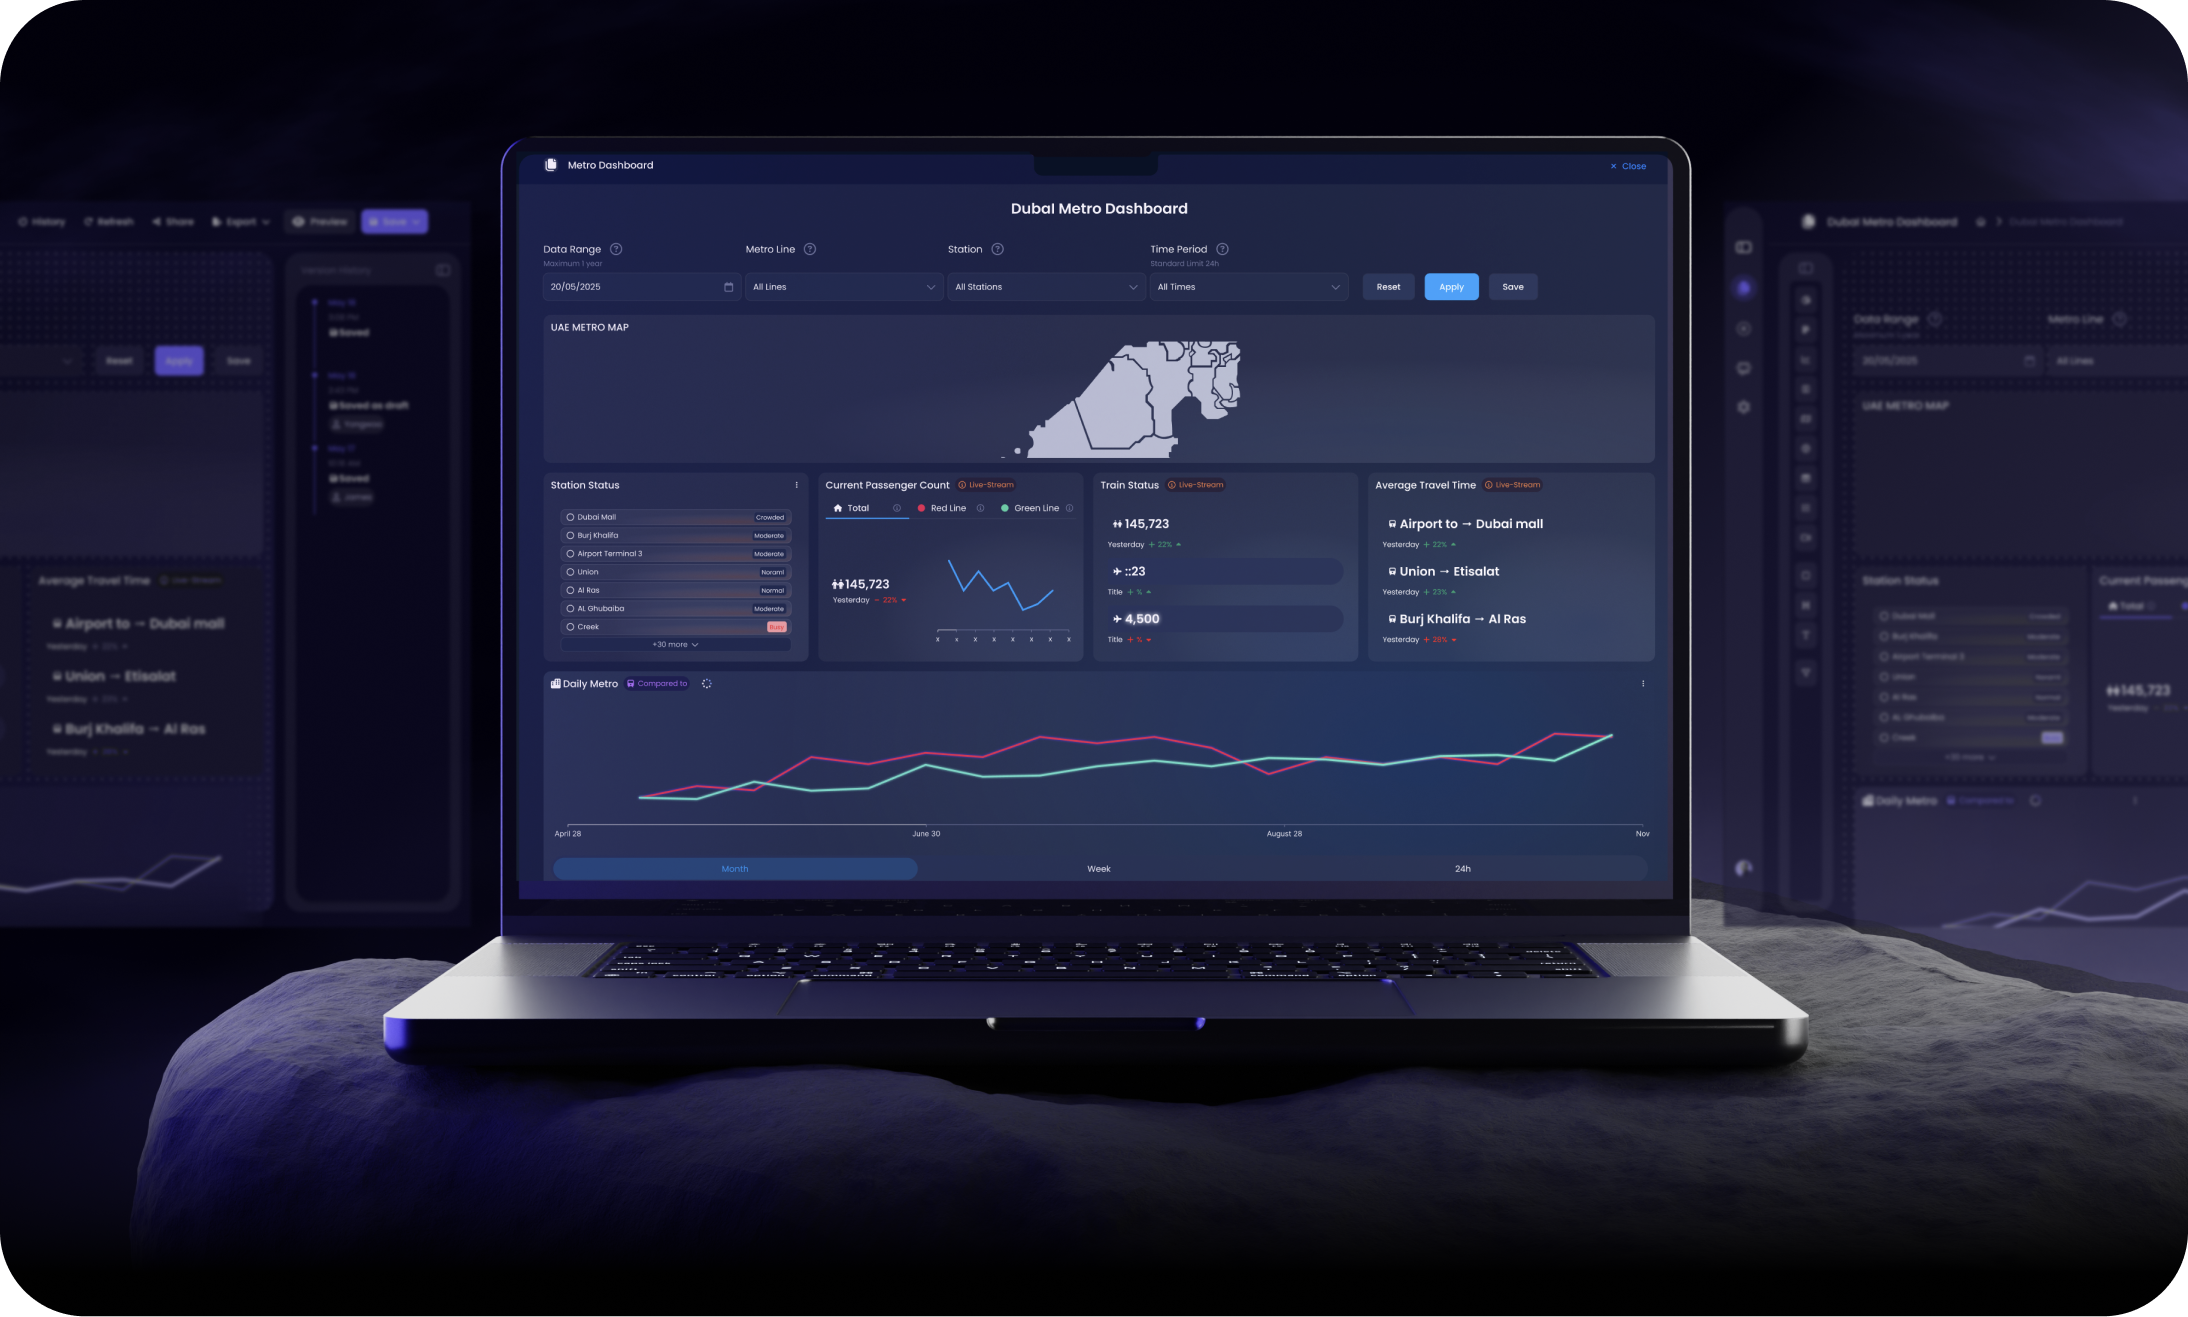
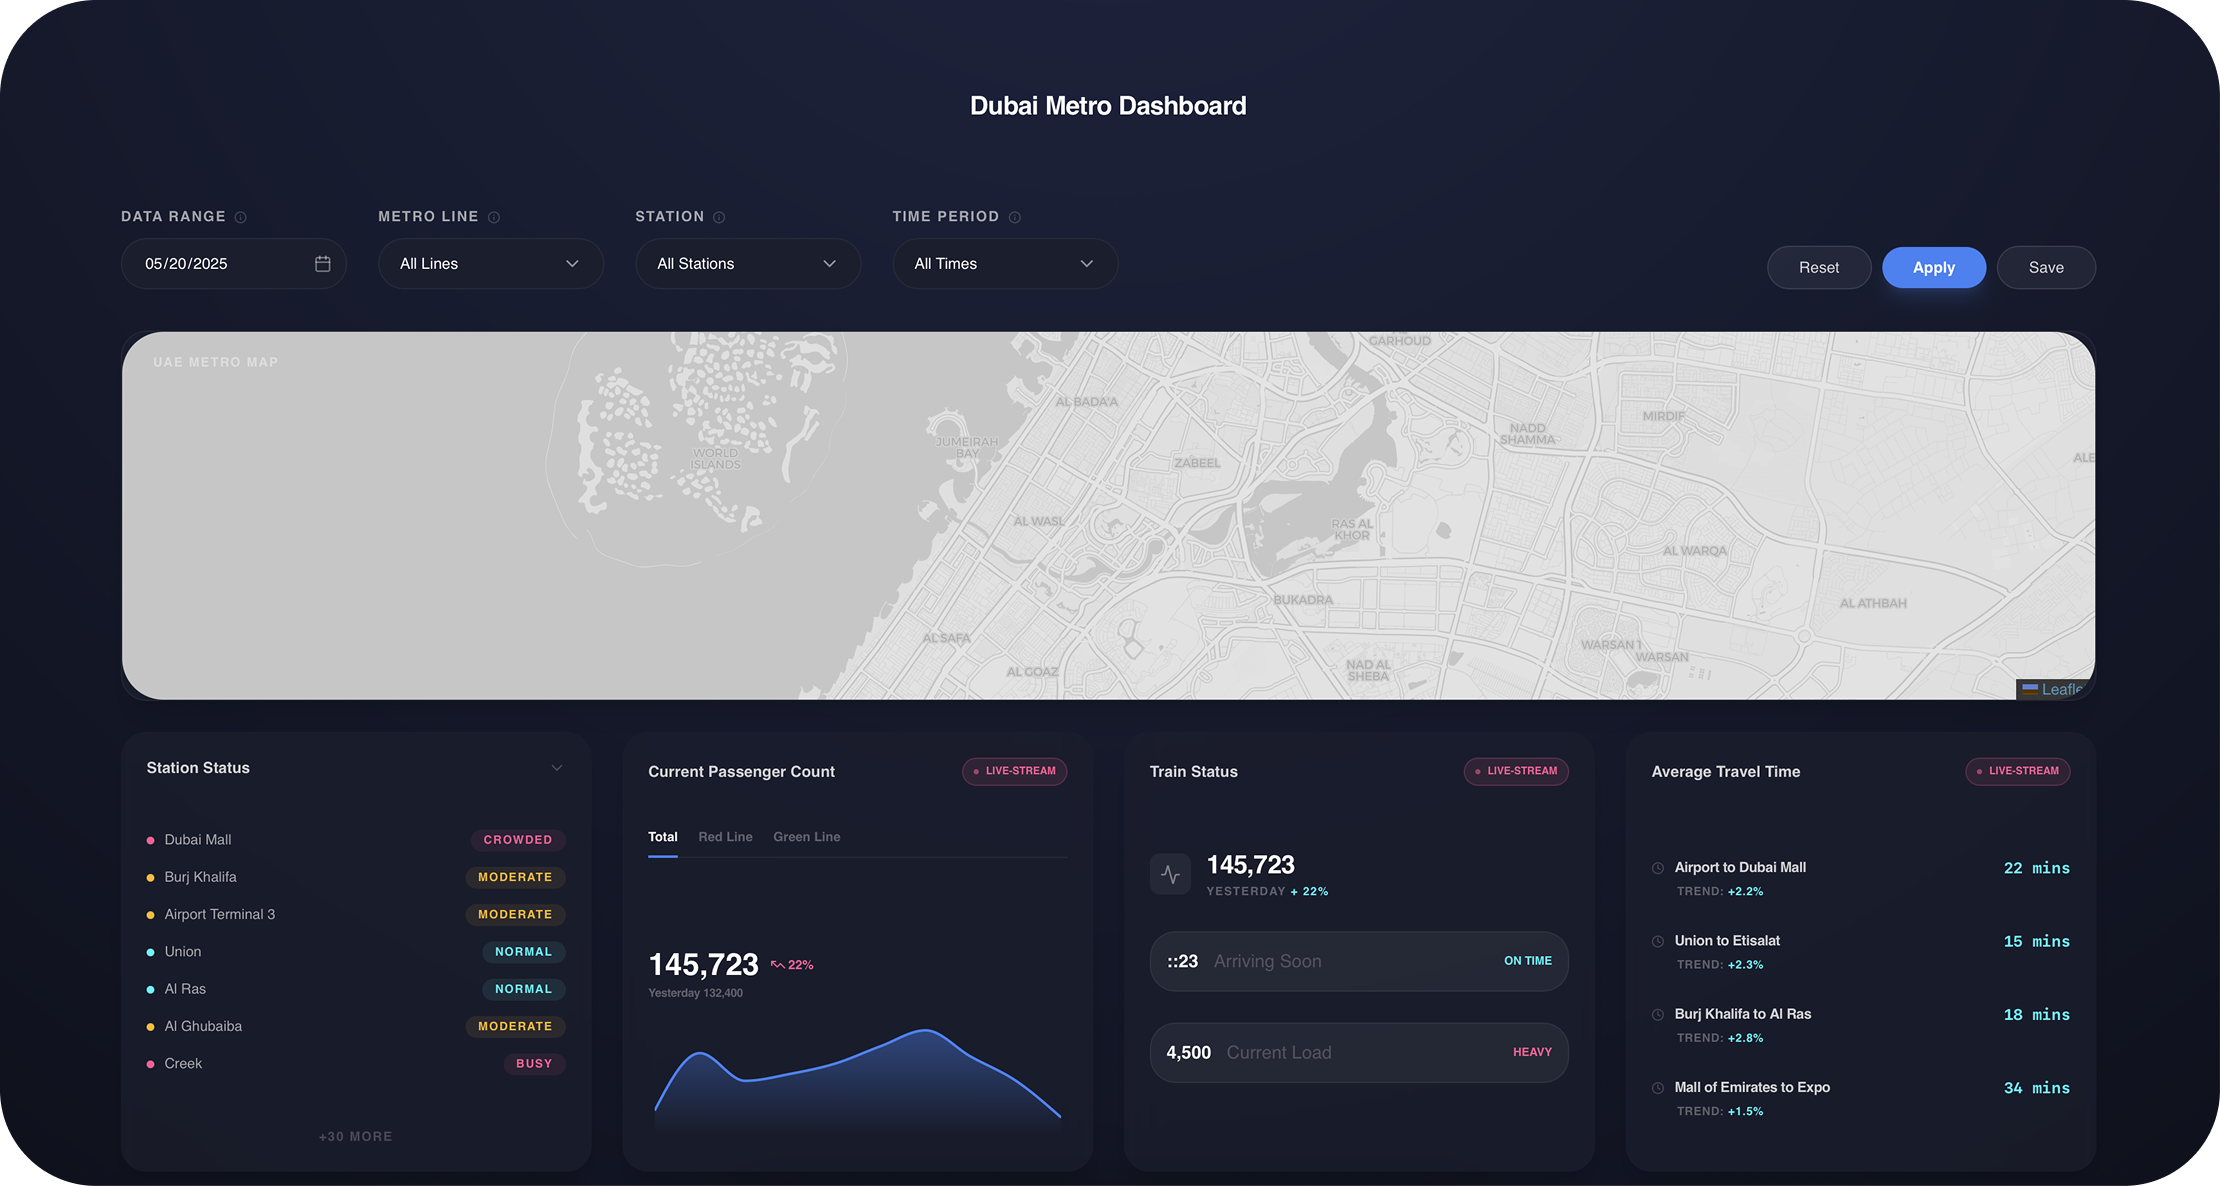
Add Dashboard Builder section to Scalable Chart System project

diff --git a/src/data/portfolio.tsx b/src/data/portfolio.tsx
@@ -360,12 +360,16 @@ export const allProjects: Project[] = [
                 layout: "full",
                 items: [
                     {
-                        title: "System Overview",
+                        title: "Dashboard",
                         image: "/images/ds1.png"
                     },
                     {
-                        title: "Final Implementation",
+                        title: "System Overview",
                         image: "/images/ds7.png"
+                    },
+                    {
+                        title: "Dashboard Builder",
+                        image: "/images/ds8.png"
                     }
                 ]
             }
